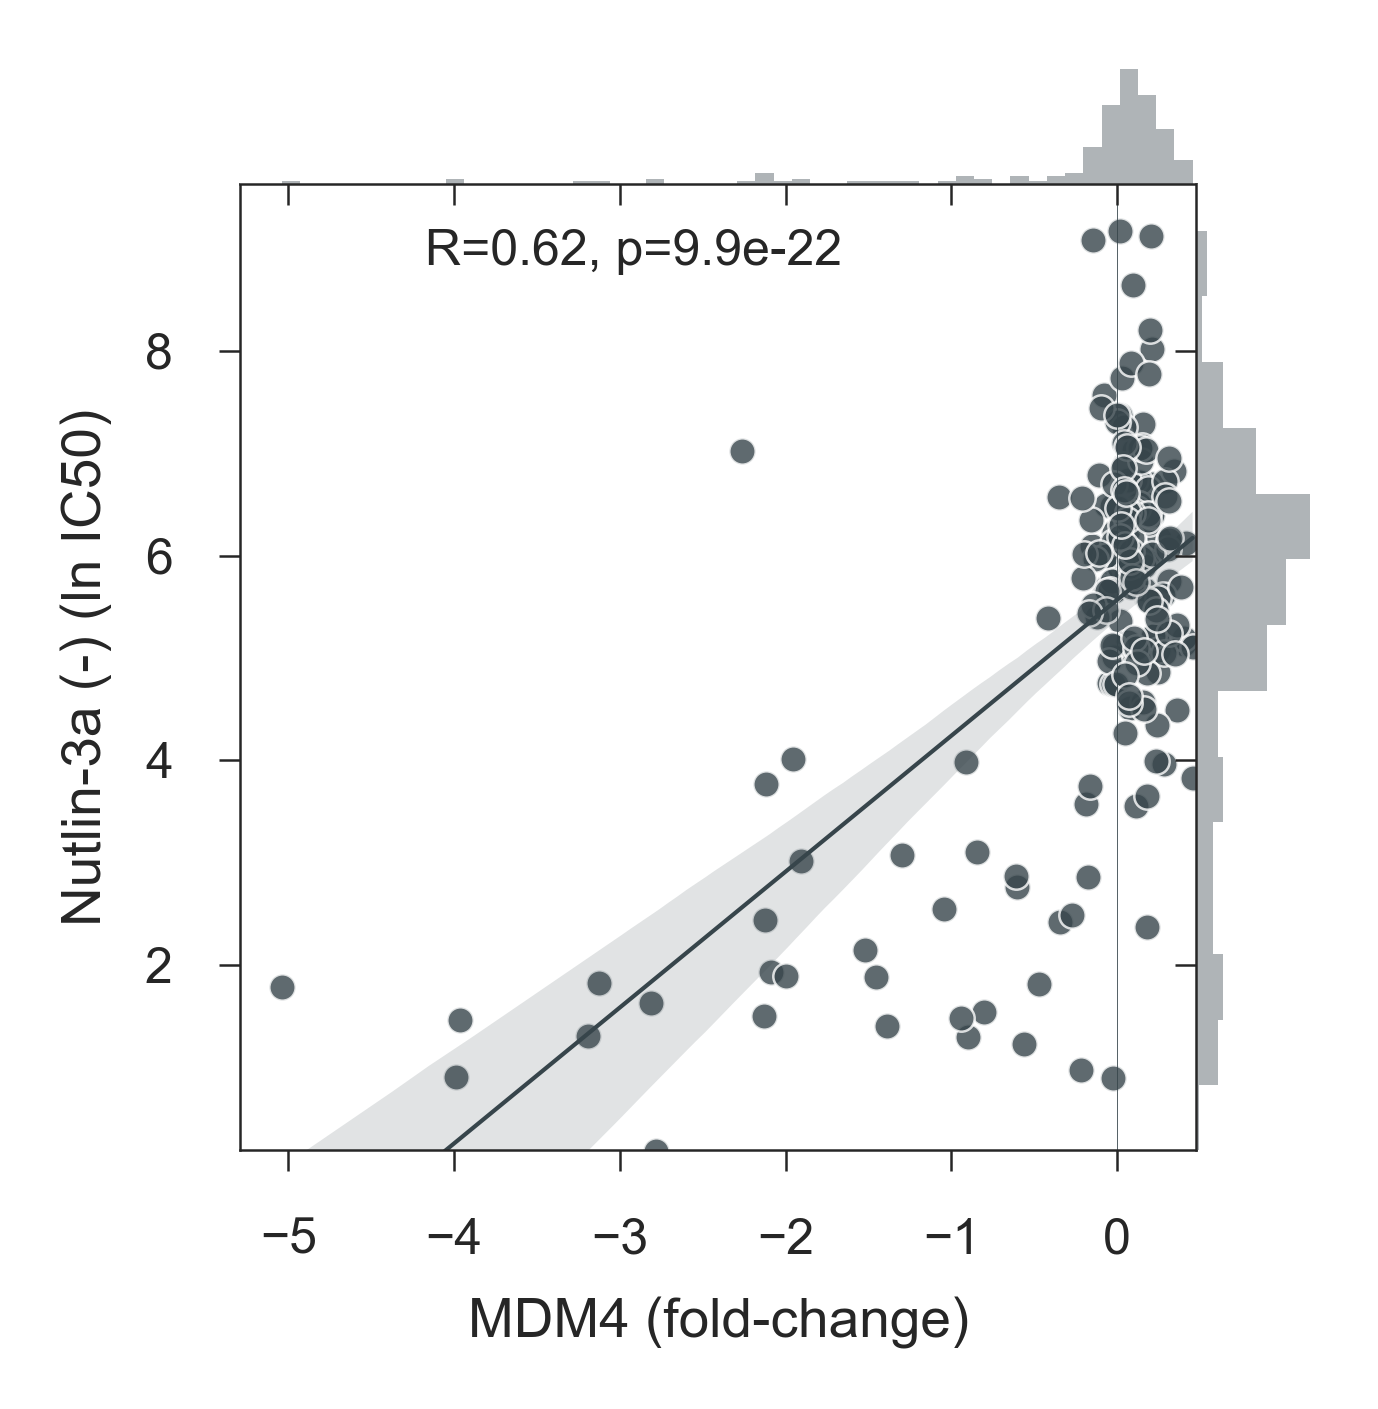
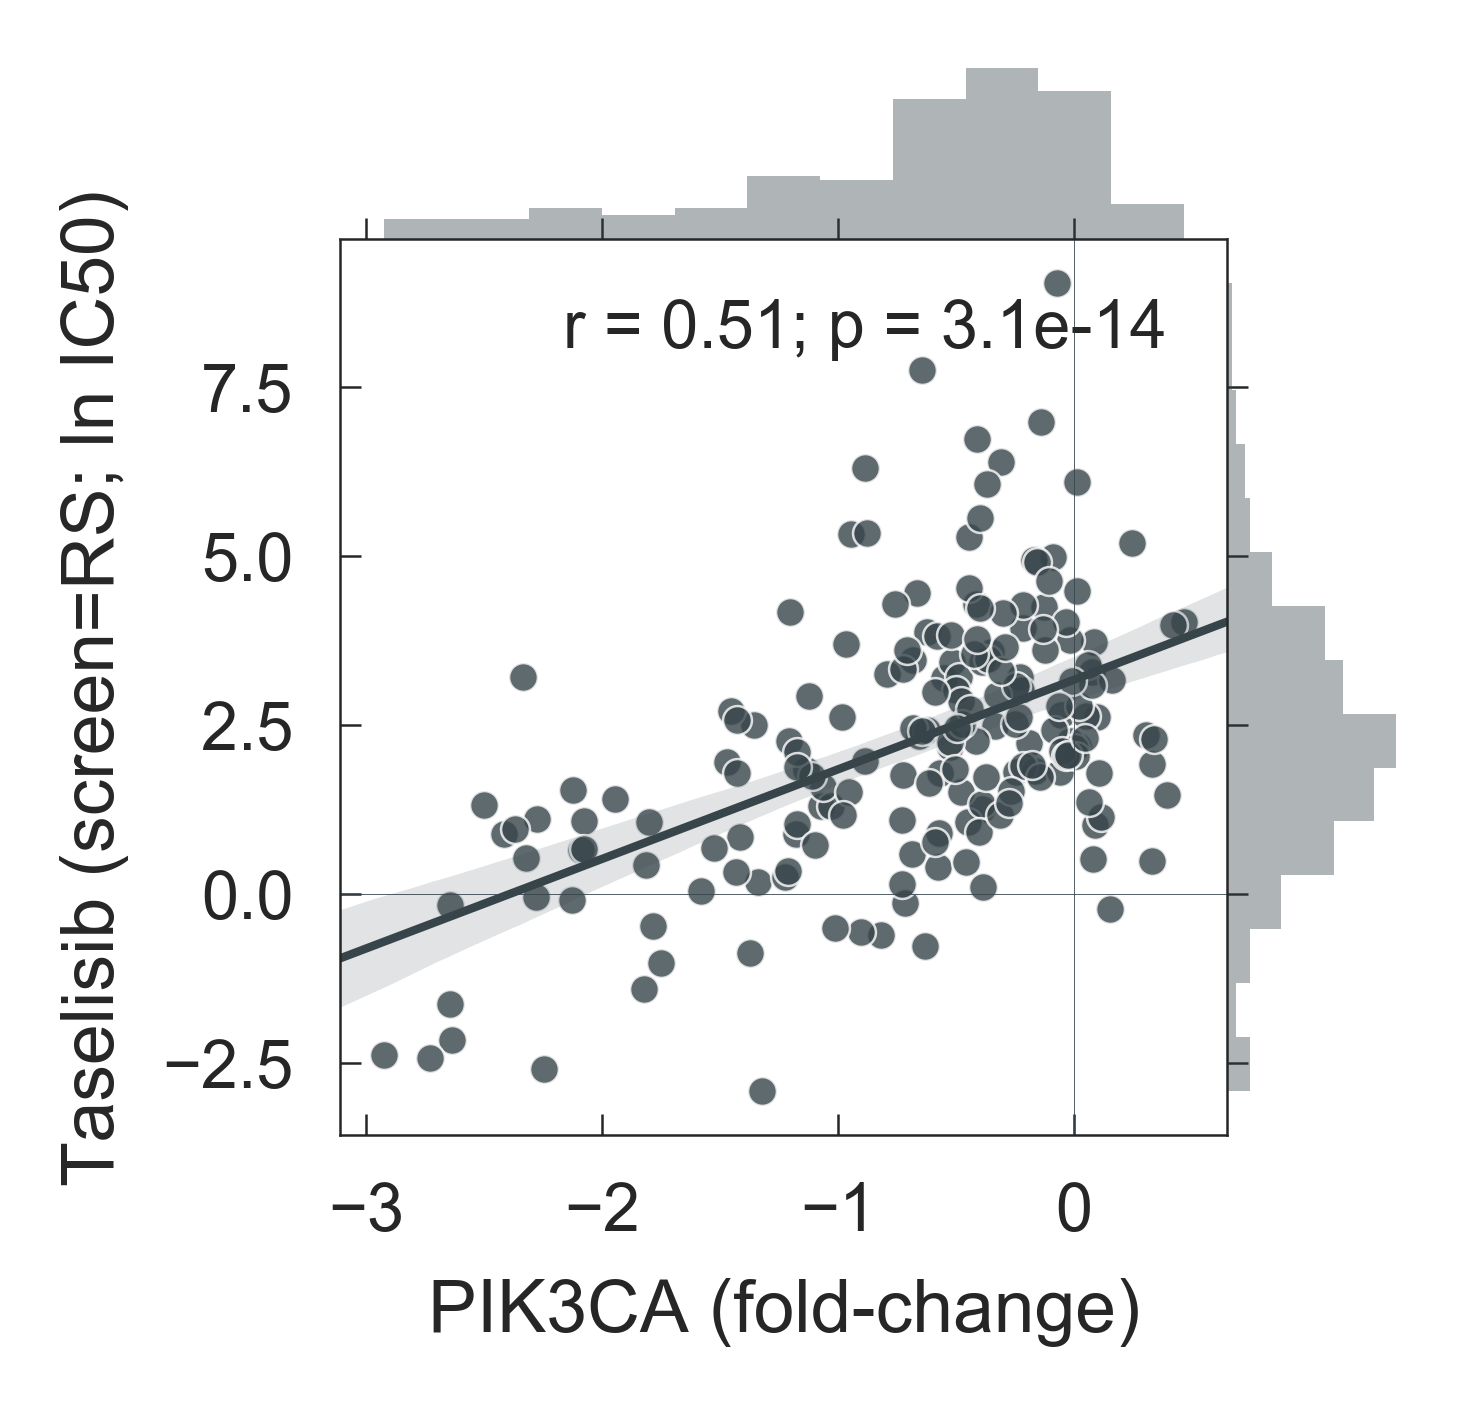
Drug crispr associations updated

diff --git a/scripts/drug/lm_drug_crispr_plot.py b/scripts/drug/lm_drug_crispr_plot.py
@@ -172,47 +172,37 @@ plt.savefig('reports/drug/ppi_boxplot.png', bbox_inches='tight', dpi=600)
 plt.close('all')
 
 
-# - Corrplot
-idx = 1
+# -
+drug_fields = ['DRUG_ID', 'DRUG_NAME', 'VERSION']
 
+drug_lr = lm_df.loc[lm_df.groupby(drug_fields)['lr_fdr'].idxmin()].set_index(drug_fields)
+drug_target_lr = lm_df.query('target == 0').groupby(drug_fields)['lr_fdr'].min()
+
+print(drug_lr.sort_values('lr_fdr')[['GENES', 'target', 'r2', 'lr_fdr']])
+
+
+# - Corrplot
+idx = 14
 d_id, d_name, d_screen, gene = lm_df.loc[idx, ['DRUG_ID', 'DRUG_NAME', 'VERSION', 'GENES']].values
 
+# Build data-frame
 plot_df = pd.DataFrame({
     'drug': d_response.loc[(d_id, d_name, d_screen), samples],
     'crispr': crispr.loc[gene, samples],
 }).dropna()
 plot_df = pd.concat([plot_df, ss.loc[plot_df.index, ['Cancer Type', 'Microsatellite']]], axis=1)
 
-
-def marginal_distplot(a, vertical=False, **kws):
-    x = plot_df['drug'] if vertical else plot_df['crispr']
-    ax = sns.distplot(x, vertical=vertical, **kws)
-    ax.set_ylabel('')
-    ax.set_xlabel('')
-    ax.set_ylim((min(x) * 1.05, max(x) * 1.05)) if vertical else ax.set_xlim((min(x) * 1.05, max(x) * 1.05))
-
-
-sns.set(
-    style='ticks', context='paper', font_scale=.75,
-    rc={'axes.linewidth': .3, 'xtick.major.width': .3, 'ytick.major.width': .3, 'xtick.major.size': 2.5, 'ytick.major.size': 2.5}
+# Plot
+g = sns.jointplot(
+    'crispr', 'drug', data=plot_df, kind='reg', space=0, color=bipal_dbgd[0], annot_kws=dict(stat='r'),
+    marginal_kws={'kde': False}, joint_kws={'scatter_kws': {'edgecolor': 'w', 'lw': .3, 's': 12}, 'line_kws': {'lw': 1.}}
 )
-g = sns.JointGrid('crispr', 'drug', plot_df, space=0, ratio=8)
-
-sns.regplot(
-    x='crispr', y='drug', data=plot_df, ax=g.ax_joint,
-    color=bipal_dbgd[0], truncate=True, fit_reg=True,
-    scatter_kws={'s': 10, 'edgecolor': 'w', 'linewidth': .3, 'alpha': .8}, line_kws={'linewidth': .5}
-)
-
-g.plot_marginals(marginal_distplot, color=bipal_dbgd[0], kde=False)
-
-g.annotate(pearsonr, template='R={val:.2g}, p={p:.1e}')
 
 g.ax_joint.axhline(0, ls='-', lw=0.1, c=bipal_dbgd[0])
 g.ax_joint.axvline(0, ls='-', lw=0.1, c=bipal_dbgd[0])
 
-g.set_axis_labels('%s (fold-change)' % gene, '%s (ln IC50)' % d_name)
+g.set_axis_labels('%s (fold-change)' % gene, '%s (screen=%s; ln IC50)' % (d_name, d_screen))
 
-plt.gcf().set_size_inches(2, 2)
+plt.gcf().set_size_inches(2., 2.)
 plt.savefig('reports/drug/crispr_drug_corrplot.png', bbox_inches='tight', dpi=600)
 plt.close('all')

diff --git a/scripts/drug/lm_robust_assoc_plot.py b/scripts/drug/lm_robust_assoc_plot.py
@@ -50,14 +50,13 @@ print(lm_robust_either)
 for name in ['drug', 'crispr']:
     plot_df = lm_res.copy()
     plot_df['signif'] = ['*' if i < 0.05 else '-' for i in plot_df['%s_lr_fdr' % name]]
-    plot_df['log10_qvalue'] = -np.log10(plot_df['%s_lr_pval' % name])
 
     pal = dict(zip(*(['*', '-'], sns.light_palette(bipal_dbgd[0], 3, reverse=True).as_hex()[:-1])))
 
     # Scatter
-    for i in ['*', '-']:
+    for i in ['-', '*']:
         plot_df_ = plot_df.query("(signif == '%s')" % i)
-        plt.scatter(plot_df_['%s_beta' % name], plot_df_['log10_qvalue'], edgecolor='white', lw=.1, s=3, alpha=.5, c=pal[i])
+        plt.scatter(plot_df_['%s_beta' % name], -np.log10(plot_df_['%s_lr_pval' % name]), edgecolor='white', lw=.1, s=3, alpha=1., c=pal[i])
 
     # Add FDR threshold lines
     yy = plot_df.loc[(plot_df['%s_lr_fdr' % name] - 0.05).abs().sort_values().index[0], '%s_lr_pval' % name]
